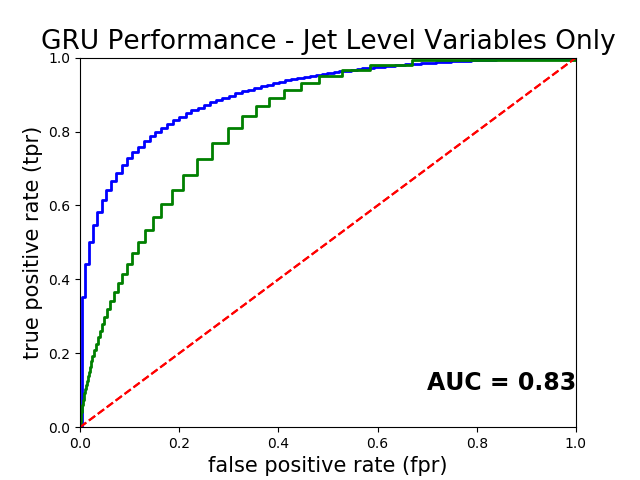
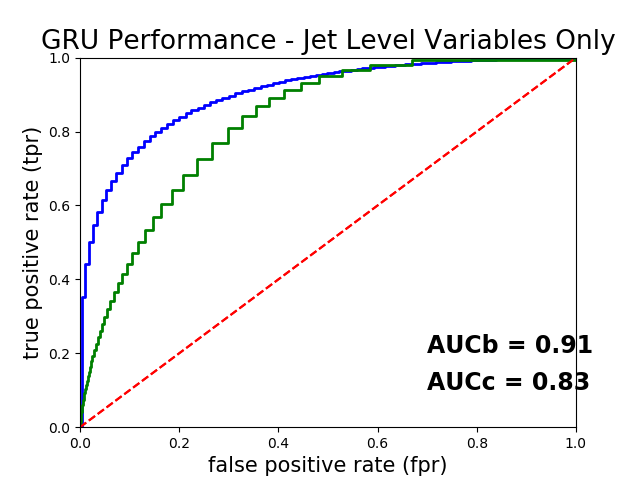
fix AUC

diff --git a/ML_ROC_plot_Rev2_c.py b/ML_ROC_plot_Rev2_c.py
@@ -5,7 +5,7 @@ tpr = np.genfromtxt('tpr.csv', delimiter=',')
 fpr = np.genfromtxt('fpr.csv', delimiter=',')
 
 AUC = np.trapz(tpr, x=fpr)
-st_AUC = "AUC = " + str('%.2f' % round(AUC, 2))
+st_AUCb = "AUCb = " + str('%.2f' % round(AUC, 2))
 
 pltRoc = plt.plot(fpr, tpr, linewidth=2, drawstyle='steps-post', color='blue')
 pltDiag = plt.plot([0,1],[0,1], 'r--')
@@ -14,11 +14,12 @@ tpr = np.genfromtxt('tprc.csv', delimiter=',')
 fpr = np.genfromtxt('fprc.csv', delimiter=',')
 
 AUC = np.trapz(tpr, x=fpr)
-st_AUC = "AUC = " + str('%.2f' % round(AUC, 2))
+st_AUCc = "AUCc = " + str('%.2f' % round(AUC, 2))
 
 pltRoc = plt.plot(fpr, tpr, linewidth=2, drawstyle='steps-post', color='green')
 pltDiag = plt.plot([0,1],[0,1], 'r--')
-plt.text(0.7,0.1, st_AUC, fontsize=17, weight=550)
+plt.text(0.7,0.2, st_AUCb, fontsize=17, weight=550)
+plt.text(0.7,0.1, st_AUCc, fontsize=17, weight=550)
 plt.xlim([0,1])
 plt.ylim([0,1])
 plt.xlabel('false positive rate (fpr)', fontsize=15)
